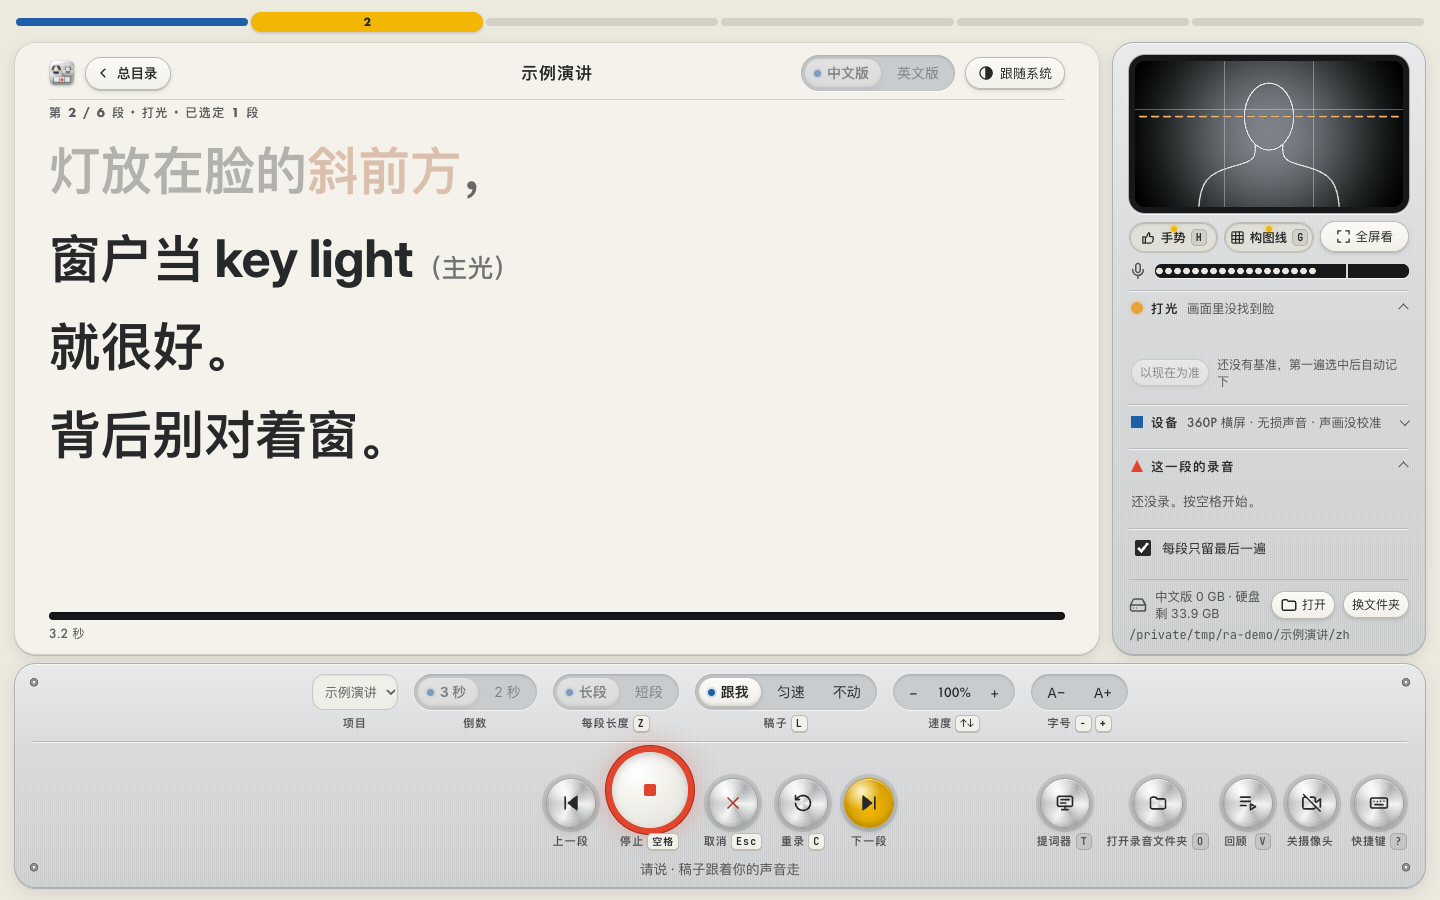
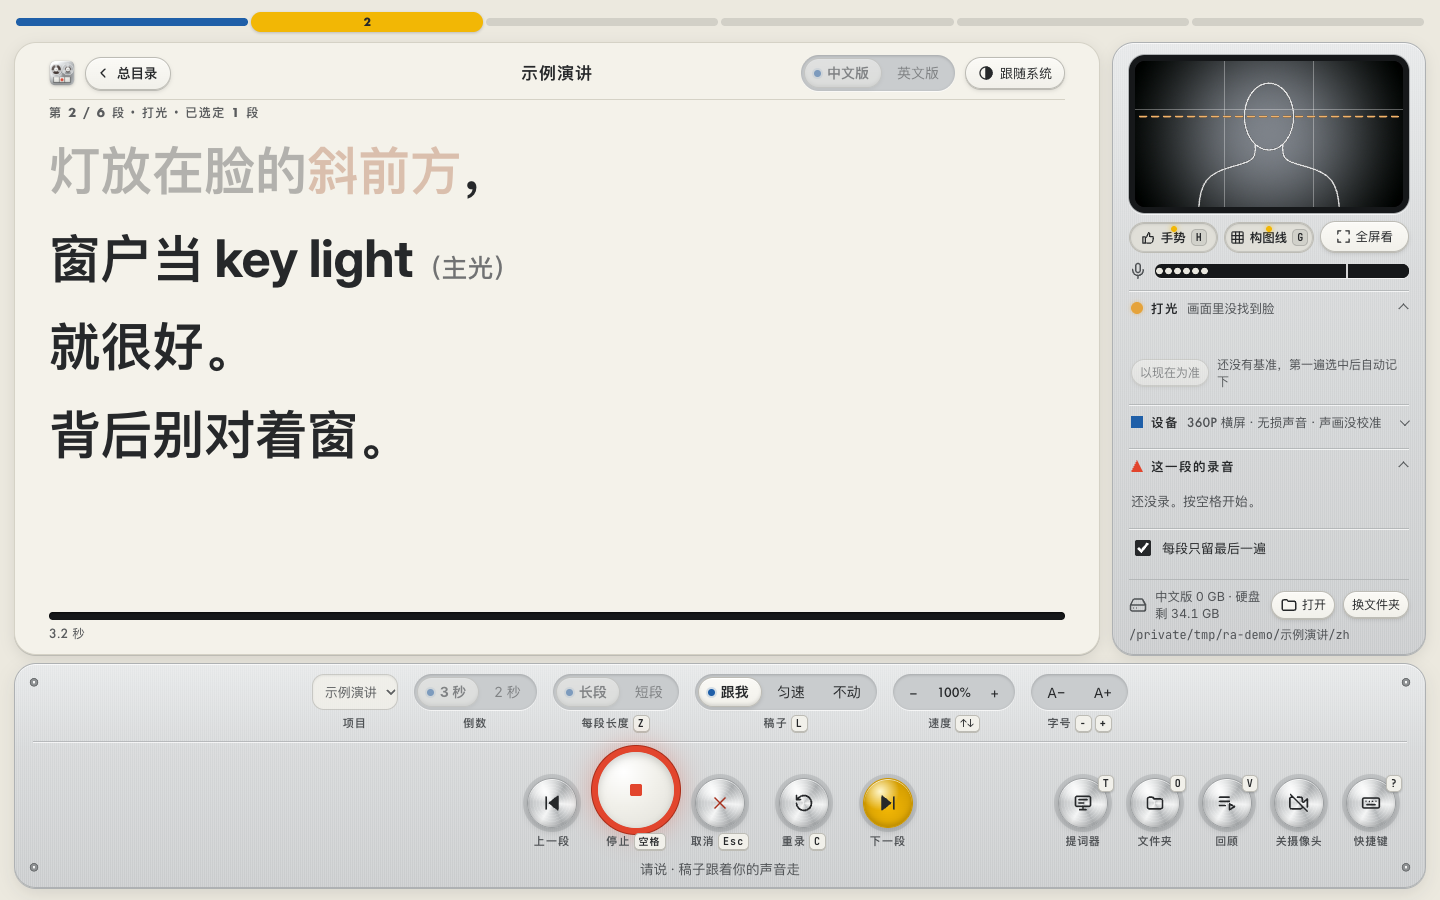
Evenly spaced keys in the bottom bar
Every key of a row now sits in a cell of the same width, so centres are evenly spaced whatever the caption:
tools 72 px apart, back / record / cancel / redo / next 84 px apart, measured exact at 1440, 1280 and 1024 px,
idle and while recording. "打开录音文件夹" is shortened to "文件夹" (the tooltip keeps the full name) and the
shortcut letters sit as small caps on each key's top right. DESIGN.md rule 10 and the screenshots follow.

diff --git a/assets/coach.html b/assets/coach.html
@@ -542,8 +542,19 @@
   .tool.on > .ic { background:radial-gradient(circle at 34% 26%,#fff7cc 0,transparent 40%),radial-gradient(circle at 50% 60%,var(--by) 0,var(--by-dk) 100%); border-color:var(--by-dk); }
   .tool.on::before { display:none; }
 
+
+  /* equal spacing: every key of a row sits in a cell of the same width, so centres are evenly spaced whatever the
+     caption says. The shortcut letter is a small cap on the key's top right, the same place on every key. */
+  #foot .grp:nth-child(2) { gap:0; }
+  #foot .grp:nth-child(2) > .ctl { width:84px; }
+  #foot .grp.r { gap:0; row-gap:8px; }
+  .tool { width:72px; grid-template-columns:1fr; position:relative; }
+  .tool > span { grid-column:1; max-width:72px; overflow:hidden; text-overflow:ellipsis; }
+  .tool > kbd { position:absolute; top:-3px; right:5px; z-index:1; font-size:10px; line-height:15px; min-width:16px; padding:0 3px; text-align:center;
+    color:#26282A; background:var(--key); border:1px solid var(--key-edge); border-radius:5px; box-shadow:0 1px 2px var(--shade2); }
+
   /* screens: Windows and Mac laptops, iPad in either direction */
-  @media (max-width:1280px) { :root { --side:300px; } #main { padding:6px 24px 10px; } .grp { gap:12px; } #foot .grp.r { gap:12px; } }
+  @media (max-width:1280px) { :root { --side:300px; } #main { padding:6px 24px 10px; } .grp { gap:12px; } }
   @media (max-width:1060px) { :root { --side:270px; } #foot { padding:8px 12px 6px; gap:8px 10px; } .tool span { display:none; } #camTools kbd { display:none; } #camTools button { padding:6px 2px; } .ctl > small { font-size:10.5px; letter-spacing:.06em; }
     #foot { grid-template-columns:auto 1fr; } #foot .grp:nth-child(2) { grid-column:1; } #foot .grp.r { grid-column:2; } }
   @media (max-width:860px) { :root { --side:240px; } #main { padding:4px 16px 8px; margin-left:8px; } #side { padding:10px; margin-right:8px; } #foot { margin:0 8px 8px; } #strip { margin:8px 8px 4px; }
@@ -640,7 +651,7 @@
     </div>
     <div class="grp r">
       <button id="togglePm" class="tool" title="提词器：有第二块屏（随航、外接）就开到那块屏上；只有一块屏就铺满这块屏。Shift+T 强制开在这块屏"><svg class="ic"><use href="#i-prompter"/></svg><span>提词器</span><kbd>T</kbd></button>
-      <button id="openFolder" class="tool" title="在 Finder 中打开存录像的文件夹"><svg class="ic"><use href="#i-folder"/></svg><span>打开录音文件夹</span><kbd>O</kbd></button>
+      <button id="openFolder" class="tool" title="在 Finder 中打开存录像的文件夹"><svg class="ic"><use href="#i-folder"/></svg><span>文件夹</span><kbd>O</kbd></button>
       <button id="review" class="tool" title="回顾录过的段：回看、删除、一键清理"><svg class="ic"><use href="#i-review"/></svg><span>回顾</span><kbd>V</kbd></button>
       <button id="hold" class="tool" title="离开时用：存好当前这遍，关掉摄像头和麦克风。10 分钟没操作也会自动关"><svg class="ic"><use href="#i-camoff"/></svg><span>关摄像头</span></button>
       <button id="keysBtn" class="tool" title="全部快捷键和手势"><svg class="ic"><use href="#i-keys"/></svg><span>快捷键</span><kbd>?</kbd></button>

diff --git a/design/README.md b/design/README.md
@@ -27,17 +27,17 @@ Then use `var(--plate)`, `var(--key)`, `var(--rec)`, `var(--by)`, `var(--bb)` an
 |---|---|---|---|
 | `design/DESIGN.md` | 6 KB | design notes; read before changing the look | https://raw.githubusercontent.com/GabrielPower1969/recording-assistant/main/design/DESIGN.md |
 | `design/tokens.css` | 4 KB | colours, materials, radii, fonts as CSS custom properties; generated by `scripts/export_tokens.py` | https://raw.githubusercontent.com/GabrielPower1969/recording-assistant/main/design/tokens.css |
-| `design/screenshots/home-light.png` | 1440 × 900 px · 264 KB | list of projects, day: the faceplate with screws, project label ringed in blue, version switch, manual, yellow main key | https://raw.githubusercontent.com/GabrielPower1969/recording-assistant/main/design/screenshots/home-light.png |
-| `design/screenshots/home-dark.png` | 1440 × 900 px · 293 KB | list of projects, night | https://raw.githubusercontent.com/GabrielPower1969/recording-assistant/main/design/screenshots/home-dark.png |
-| `design/screenshots/studio-light.png` | 1440 × 900 px · 256 KB | recording page, day: progress strip (picked, current with its number, not recorded), top bar with the project centred and the version switch at the right, script on paper, side plate with camera behind glass, one row of round keys | https://raw.githubusercontent.com/GabrielPower1969/recording-assistant/main/design/screenshots/studio-light.png |
-| `design/screenshots/studio-dark.png` | 1440 × 900 px · 248 KB | recording page, night | https://raw.githubusercontent.com/GabrielPower1969/recording-assistant/main/design/screenshots/studio-dark.png |
-| `design/screenshots/studio-1024-light.png` | 1024 × 768 px · 195 KB | recording page on a 1024 px screen (iPad landscape): tool names fold away, keys stay in one row | https://raw.githubusercontent.com/GabrielPower1969/recording-assistant/main/design/screenshots/studio-1024-light.png |
-| `design/screenshots/recording-light.png` | 1440 × 900 px · 249 KB | during a take, day: read words dimmed, REC ringed and glowing, level meter lamps lit | https://raw.githubusercontent.com/GabrielPower1969/recording-assistant/main/design/screenshots/recording-light.png |
-| `design/screenshots/recording-dark.png` | 1440 × 900 px · 241 KB | during a take, night | https://raw.githubusercontent.com/GabrielPower1969/recording-assistant/main/design/screenshots/recording-dark.png |
-| `design/screenshots/take-saved-light.png` | 1440 × 900 px · 300 KB | the take was saved: glass message card, picked take ringed in blue in the side panel | https://raw.githubusercontent.com/GabrielPower1969/recording-assistant/main/design/screenshots/take-saved-light.png |
-| `design/screenshots/take-saved-dark.png` | 1440 × 900 px · 288 KB | the take was saved, night | https://raw.githubusercontent.com/GabrielPower1969/recording-assistant/main/design/screenshots/take-saved-dark.png |
-| `design/screenshots/keys-light.png` | 1440 × 900 px · 318 KB | the sheet of keys and gestures (press ?), day | https://raw.githubusercontent.com/GabrielPower1969/recording-assistant/main/design/screenshots/keys-light.png |
-| `design/screenshots/keys-dark.png` | 1440 × 900 px · 296 KB | the sheet of keys and gestures, night | https://raw.githubusercontent.com/GabrielPower1969/recording-assistant/main/design/screenshots/keys-dark.png |
+| `design/screenshots/home-light.png` | 1440 × 900 px · 263 KB | list of projects, day: the faceplate with screws, project label ringed in blue, version switch, manual, yellow main key | https://raw.githubusercontent.com/GabrielPower1969/recording-assistant/main/design/screenshots/home-light.png |
+| `design/screenshots/home-dark.png` | 1440 × 900 px · 292 KB | list of projects, night | https://raw.githubusercontent.com/GabrielPower1969/recording-assistant/main/design/screenshots/home-dark.png |
+| `design/screenshots/studio-light.png` | 1440 × 900 px · 250 KB | recording page, day: progress strip (picked, current with its number, not recorded), top bar with the project centred and the version switch at the right, script on paper, side plate with camera behind glass, one row of round keys | https://raw.githubusercontent.com/GabrielPower1969/recording-assistant/main/design/screenshots/studio-light.png |
+| `design/screenshots/studio-dark.png` | 1440 × 900 px · 243 KB | recording page, night | https://raw.githubusercontent.com/GabrielPower1969/recording-assistant/main/design/screenshots/studio-dark.png |
+| `design/screenshots/studio-1024-light.png` | 1024 × 768 px · 191 KB | recording page on a 1024 px screen (iPad landscape): tool names fold away, keys stay in one row | https://raw.githubusercontent.com/GabrielPower1969/recording-assistant/main/design/screenshots/studio-1024-light.png |
+| `design/screenshots/recording-light.png` | 1440 × 900 px · 243 KB | during a take, day: read words dimmed, REC ringed and glowing, level meter lamps lit | https://raw.githubusercontent.com/GabrielPower1969/recording-assistant/main/design/screenshots/recording-light.png |
+| `design/screenshots/recording-dark.png` | 1440 × 900 px · 236 KB | during a take, night | https://raw.githubusercontent.com/GabrielPower1969/recording-assistant/main/design/screenshots/recording-dark.png |
+| `design/screenshots/take-saved-light.png` | 1440 × 900 px · 290 KB | the take was saved: glass message card, picked take ringed in blue in the side panel | https://raw.githubusercontent.com/GabrielPower1969/recording-assistant/main/design/screenshots/take-saved-light.png |
+| `design/screenshots/take-saved-dark.png` | 1440 × 900 px · 280 KB | the take was saved, night | https://raw.githubusercontent.com/GabrielPower1969/recording-assistant/main/design/screenshots/take-saved-dark.png |
+| `design/screenshots/keys-light.png` | 1440 × 900 px · 316 KB | the sheet of keys and gestures (press ?), day | https://raw.githubusercontent.com/GabrielPower1969/recording-assistant/main/design/screenshots/keys-light.png |
+| `design/screenshots/keys-dark.png` | 1440 × 900 px · 294 KB | the sheet of keys and gestures, night | https://raw.githubusercontent.com/GabrielPower1969/recording-assistant/main/design/screenshots/keys-dark.png |
 | `design/screenshots/mark-title-light.png` | 600 × 136 px · 26 KB | the icon beside the title with the circle, square and triangle, day (2x) | https://raw.githubusercontent.com/GabrielPower1969/recording-assistant/main/design/screenshots/mark-title-light.png |
 | `design/screenshots/mark-title-dark.png` | 600 × 136 px · 26 KB | the same, night (2x) | https://raw.githubusercontent.com/GabrielPower1969/recording-assistant/main/design/screenshots/mark-title-dark.png |
 | `design/screenshots/favicon-on-tabs.png` | 360 × 240 px · 7 KB | the 32 and 16 px tab icons on Chrome's light and dark tab colours (a mock-up, not a capture) | https://raw.githubusercontent.com/GabrielPower1969/recording-assistant/main/design/screenshots/favicon-on-tabs.png |

diff --git a/design/DESIGN.md b/design/DESIGN.md
@@ -44,8 +44,10 @@ Everything else is ink, paper, aluminium and glass.
    things are is a habit.
 9. One control, one place. The version switch (Chinese / English) lives only at the top right; the copy in the
    bottom bar is hidden.
-10. Keys in a row share one key size and one caption line, so their tops and labels align to the pixel. A key
-   without a shortcut still keeps the empty caption line.
+10. Keys in a row share one key size, one caption line and one cell width, so their tops, labels and centres are
+   evenly spaced to the pixel: tools 72 px apart, transport keys 84 px apart (idle and while recording). A caption
+   that does not fit its cell is shortened ("文件夹", the tooltip keeps the full name), never allowed to widen it.
+   The shortcut letter is a small cap on the key's top right, the same place on every key.
 11. A read-out has one layer. No track inside a track, no outline around a fill.
 
 ## Type
@@ -79,7 +81,7 @@ Labels printed on the plate are 11 to 12.5 px, bold, letter-spaced 0.1 to 0.14 e
 | REC | red radial gradient, highlight at top left, 6 px plate ring; recording: white face, red ring, pulsing glow (off with reduced motion) |
 | Next / main key | Braun yellow radial gradient, ink text |
 | Switch | rounded slot (`--well`, inset), 36 px high like the project select, holding pill keys; the chosen pill stands up with a blue lamp |
-| Tool | the same round 50 px dial key as back and forward, with the name and key cap on the caption line under it; on = the key turns yellow. Tools sit on the transport row and align with it |
+| Tool | the same round 50 px dial key as back and forward in a 72 px cell, name on the caption line under it, shortcut cap on the key's top right; on = the key turns yellow. Tools sit on the transport row and align with it |
 | Top bar | three parts on a grid: back to the list (with the icon) on the left, the project name centred, the version switch and the theme key on the right |
 | Progress strip | one row of pills straight on the housing, one per segment: grey = not recorded, pale blue = recorded, blue = picked; the current one is yellow, taller and carries its number (CSS counter). Click a pill to go there |
 | Section | printed name with a circle, square or triangle before it, hairline above, chevron at the end |
@@ -104,7 +106,7 @@ layer was added on 2026-11-13 after the first faceplate was judged too square.
 - **硬规矩：** 卡片、提示框、主容器都**不加侧边彩色竖条**。分组用小标题、细线、材质，或圆、方、三角。
 - **一处一个：** 中/英切换只在右上角；顶栏左边返回总目录、中间项目名、右边版本和主题。
 - **进度条只有一层：** 灰色是没录，浅蓝是录过，蓝色是已选，当前段是黄色、更高、带段号。
-- **一排键一样大：** 右下角工具键和上一段、下一段一样是圆键，名字在键下面，没有快捷键的也留一行。
+- **一排键一样大、等间距：** 右下角工具键和上一段、下一段一样是圆键，每个键的格子一样宽（工具键 72 像素，走带键 84 像素），圆心等距；名字在键下面，快捷键字母在键的右上角，名字太长就缩短，不撑宽格子。
 - **形状：** 走带键是圆的；开关和工具键是胶囊形；面板圆角 22，卡片 14，按键 12。
 - **字体：** 正文 Inter / 苹方；标题、标签、数字用 Futura / Avenir；会变的数字和路径用等宽字体。
 - **白天、黑夜两套都是设计出来的，不是反色。** 提词器始终黑底，不跟主题。
